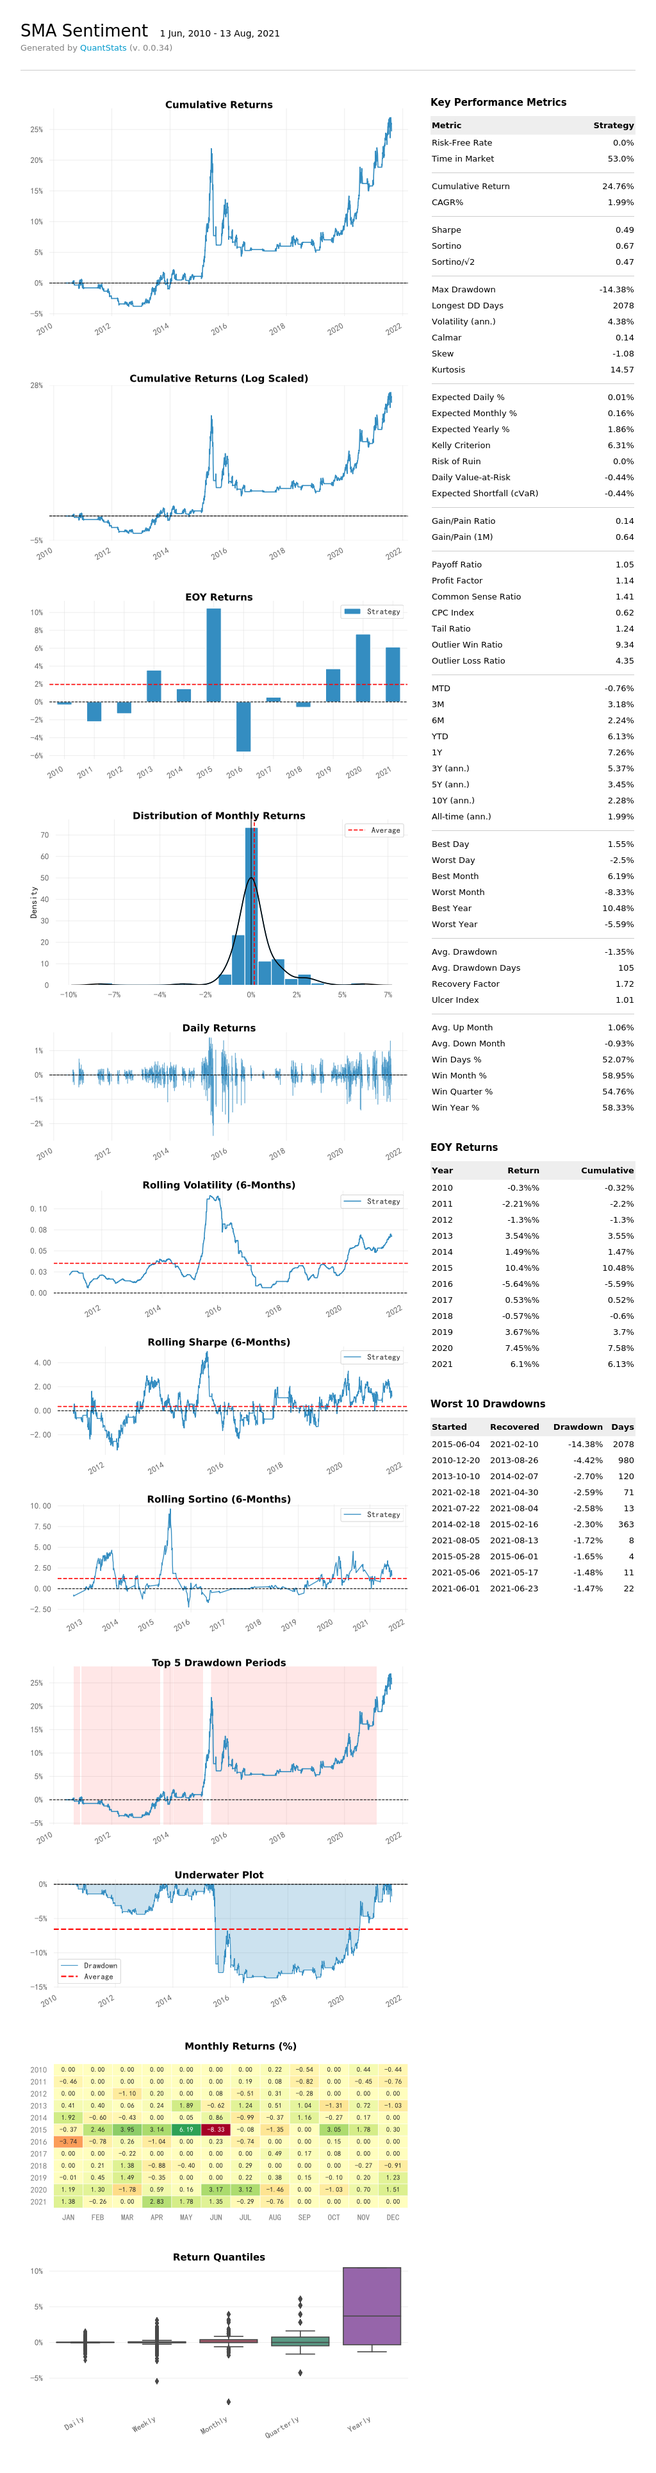
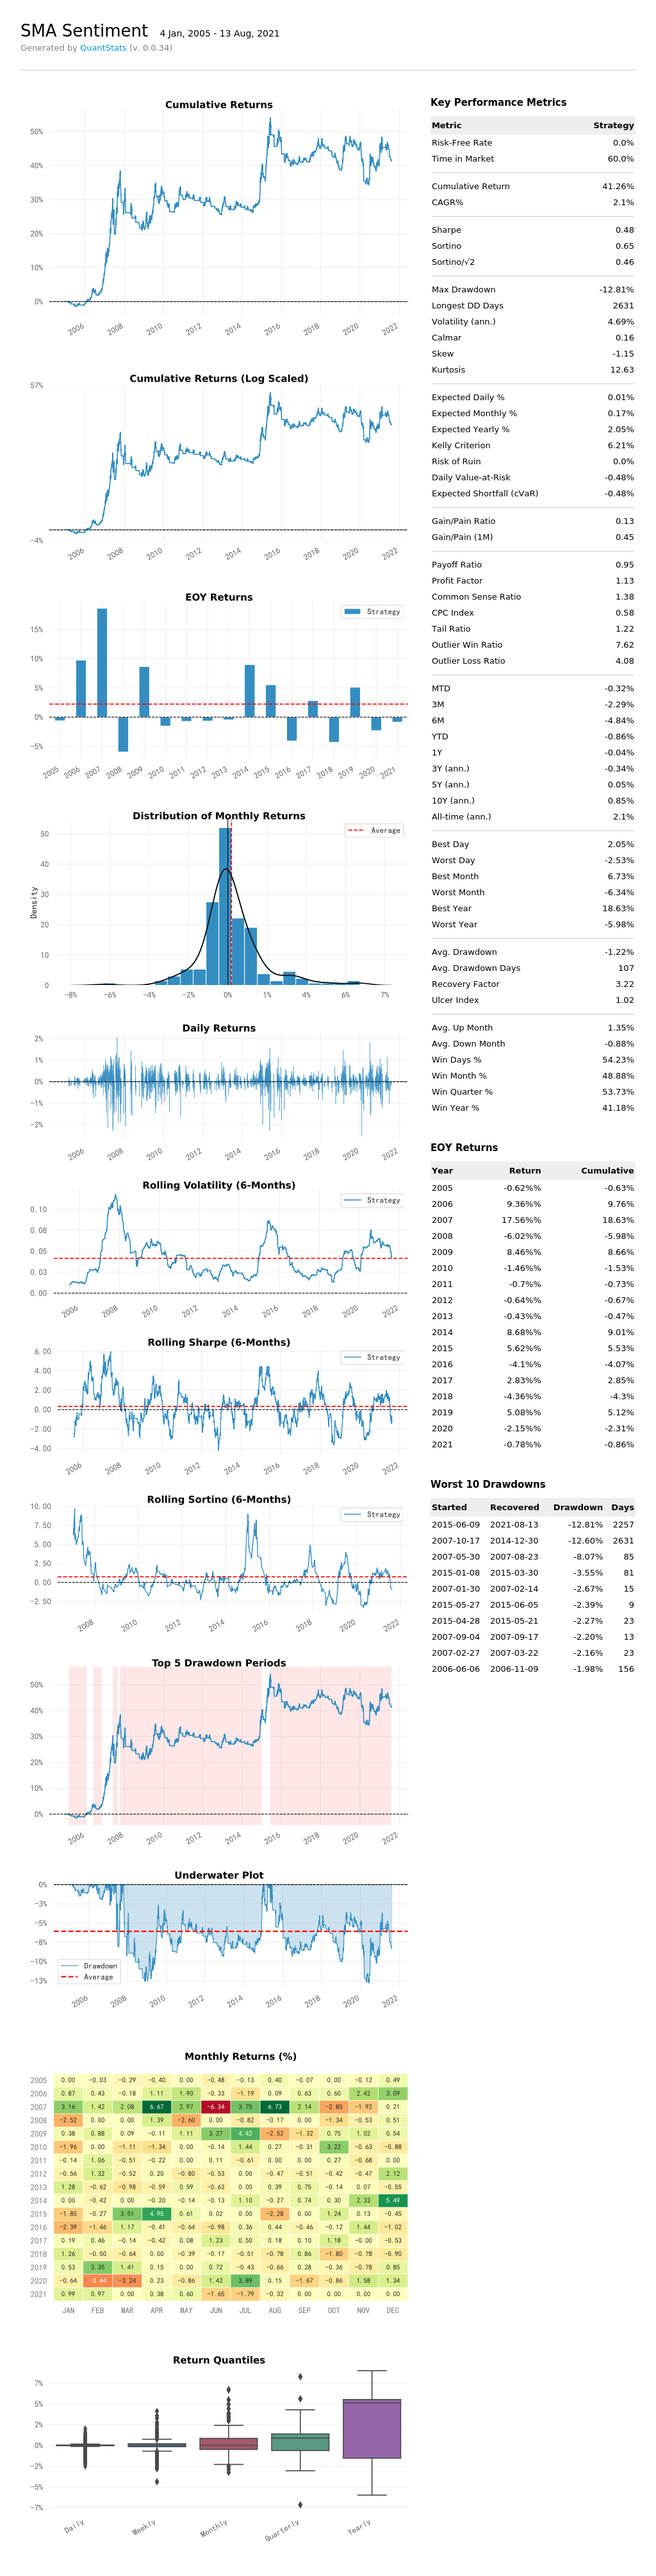
完成均值回归策略回测。

diff --git a/macd/tools.py b/macd/tools.py
@@ -131,12 +131,12 @@ def getStockData(code, path = "./pooldata/", month = 6, refresh = False):
     
 # 获取基准数据，默认为沪深300ETF
 @run.change_dir
-def getBenchmarkData(code = "sh510300", path = "./", month = 6, refresh = False):
+def getBenchmarkData(code = "000300", path = "./", month = 6, refresh = False):
     filename = path + "bench.csv"
     if os.path.exists(filename) and refresh == False:
         data = pd.read_csv(filename)
-        data.date = pd.to_datetime(data.date)
-        data.columns = ["日期", "开盘", "最高", "最低", "收盘", "成交量"]
+        data.日期 = pd.to_datetime(data.日期)
+        # data.columns = ["日期", "开盘", "最高", "最低", "收盘", "成交量"]
         return data
     else:
         today = datetime.date.today().strftime("%Y%m%d")
@@ -144,14 +144,15 @@ def getBenchmarkData(code = "sh510300", path = "./", month = 6, refresh = False)
         months = (datetime.date.today() - relativedelta(months = month)).strftime("%Y%m%d")
         # print("测试基准", code, type(code))
         # benchmark_data = ak.stock_zh_a_hist(symbol = code, start_date = months, end_date = today, adjust = "qfq")
-        benchmark_data = ak.stock_zh_index_daily(symbol = code)
+        benchmark_data = getStockData(code, path = "./", month = month, refresh = refresh)# ak.stock_zh_index_daily(symbol = code)
         # benchmark_data.columns = ["开盘", "最高", "最低", "收盘", "成交量"]
         # benchmark_data.rename(index = {"date":"日期"})
+        data.日期 = pd.to_datetime(data.日期)
         benchmark_data.to_csv(filename)
-        data = pd.read_csv(filename)
-        data.date = pd.to_datetime(data.date)
-        data.columns = ["日期", "开盘", "最高", "最低", "收盘", "成交量"]
-        return data
+        # data = pd.read_csv(filename)
+        # data.date = pd.to_datetime(data.date)
+        # data.columns = ["日期", "开盘", "最高", "最低", "收盘", "成交量"]
+        return benchmark_data
     
     
 # 打包整个下载数据，选股过程

diff --git a/macd/strategy.py b/macd/strategy.py
@@ -133,3 +133,38 @@ class CYBStrategy(bt.Strategy):
             
     def stop(self):
         self.order = self.close()
+        
+        
+# 均线策略
+class MA(bt.Strategy):
+    params = (('period', 30),)
+    
+    def __init__(self):
+        self.order = None
+        self.收盘 = self.datas[0].close
+        self.ma = bt.indicators.MovingAverageSimple(self.收盘, period=self.params.period)
+        
+    def next(self):
+        if self.order:
+            return
+        
+        if not self.position:
+            if self.收盘[0] > self.ma[0]:
+                self.order = self.buy(data = self.datas[0])
+        else:
+            if self.收盘[0] < self.ma[0]:
+                self.order = self.sell(data = self.datas[0])
+    
+    def notify_order(self, order):
+        if order.status in [order.Submitted, order.Accepted]:
+            return
+        if order.status in [order.Completed]:
+            self.order = None
+            # print(self.data.datetime.date(0))
+            # print("买入"*order.isbuy() or "卖出\n")
+        elif order.status in [order.Canceled, order.Margin, order.Rejected]:
+            print("交易失败!", order.status)
+            self.order = None
+            
+    def stop(self):
+        self.order = self.close()

diff --git a/macd/ma.py b/macd/ma.py
@@ -1,0 +1,39 @@
+# coding:utf-8
+# 1000元实盘练习程序
+# 测试判断牛熊的指标
+# 根据《阿佩尔均线操盘术》第二章
+
+
+import pandas as pd
+import numpy as np
+import akshare as ak
+import run
+import tools
+import efinance as ef
+import datetime, quandl
+import matplotlib.pyplot as plt
+import os
+from backtest import BackTest
+import strategy as st
+    
+    
+# 对策略进行回测
+@run.change_dir
+def backTest(refresh = False):
+    month = 15*12
+    code = "000300" # 沪深300指数
+    benchmark = tools.getBenchmarkData(month = month,  refresh = refresh, path = "./stockdata/")
+    backtest = BackTest(codes = [code], strategy = st.MA, benchmark = benchmark, month = month, cash = 1000000, refresh = refresh, path = "./stockdata/", bOpt = True)
+    # results = backtest.getResults()
+    # print(results)
+    # backtest.drawResults(code + "result")
+    res = backtest.optRun(period = range(5,200))
+    print("测试c", res)
+    
+    
+
+if __name__ == "__main__":
+    tools.init()
+    backTest(refresh = False)
+    
+    
